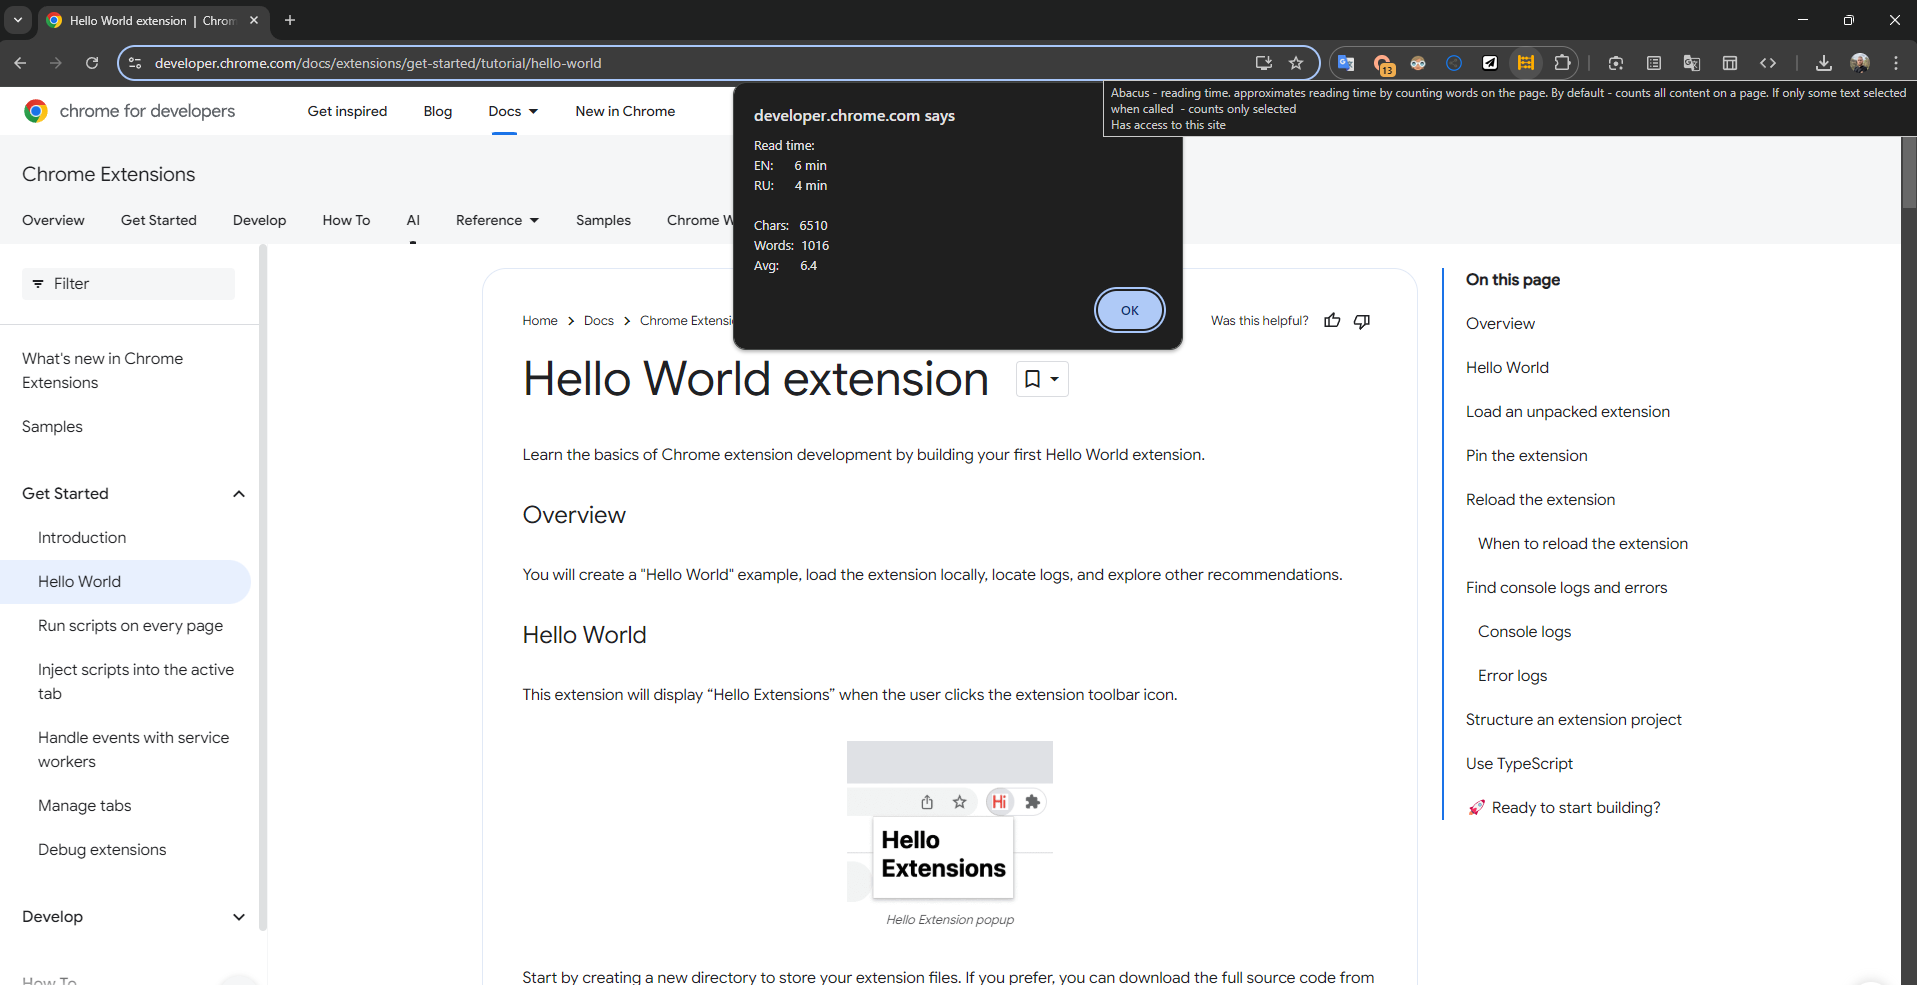
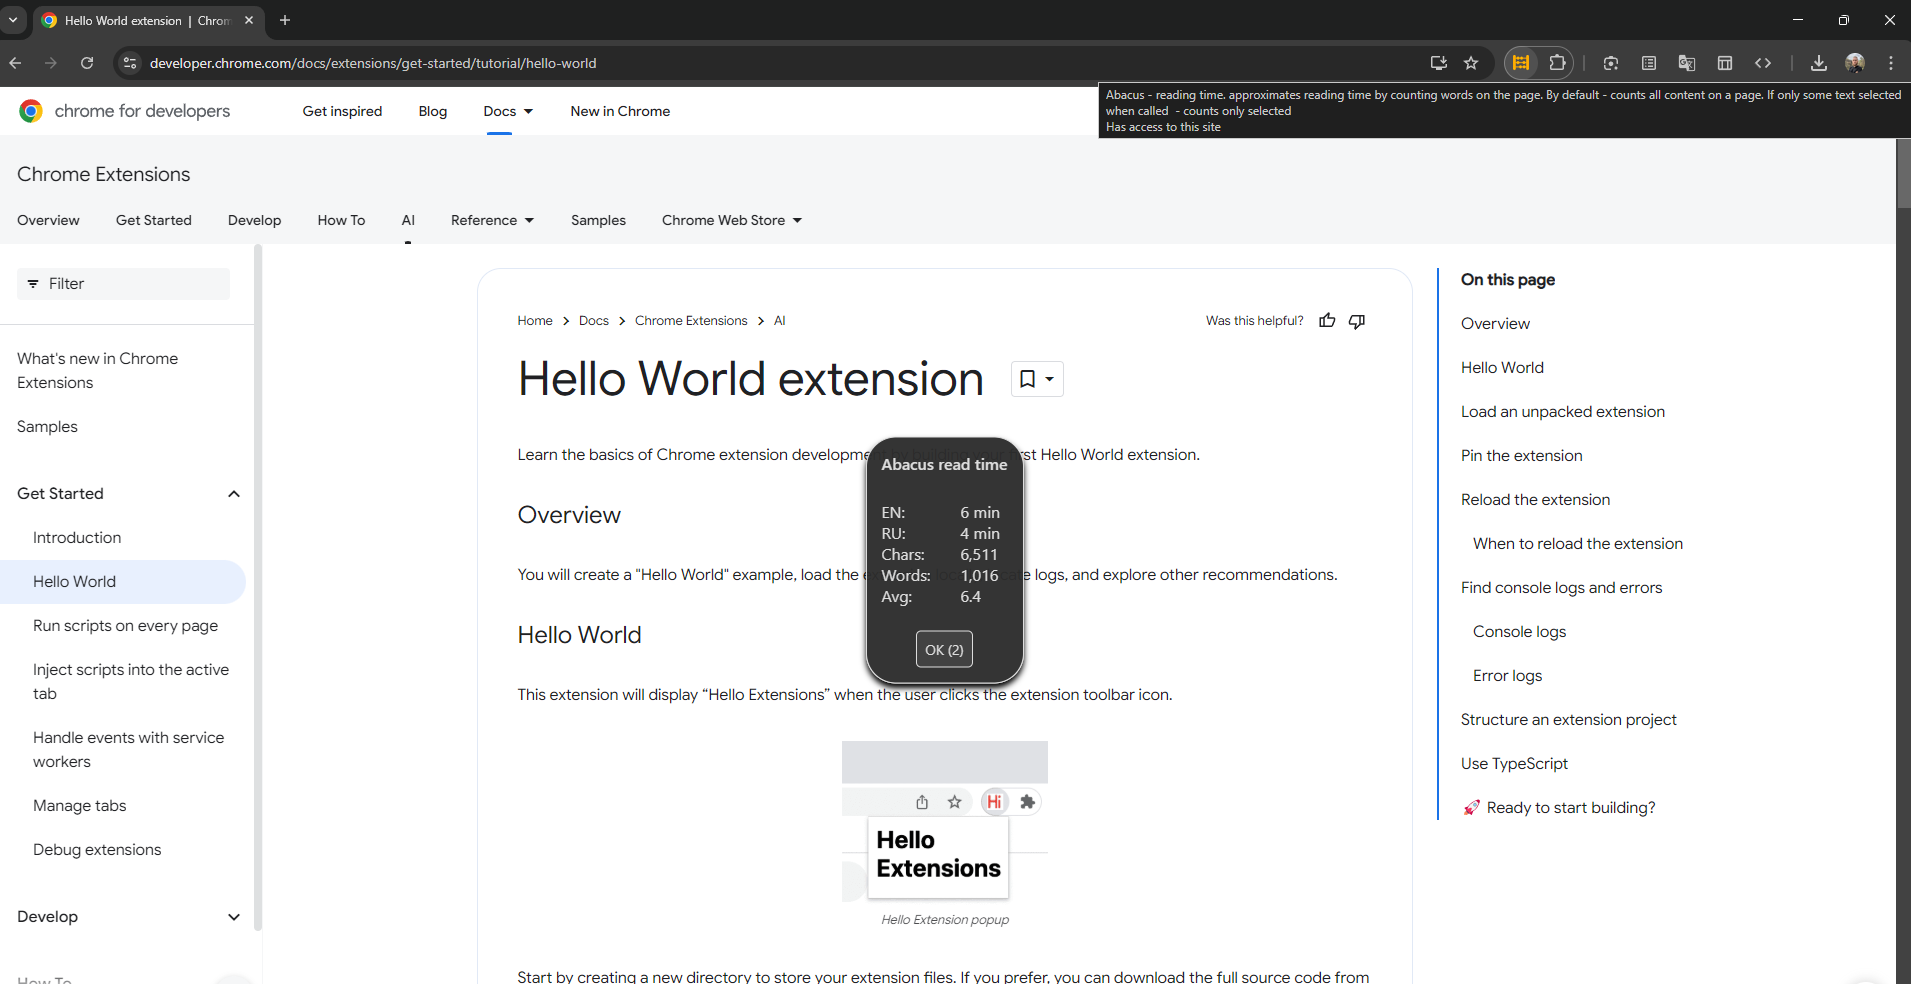
switch from default alert to custom pop-up window to add autoclose in 3 sec. with deepseek_R1. Updated screenshots and readme accordingly.

diff --git a/content.js b/content.js
@@ -1,37 +1,160 @@
-(function() {
+(function () {
   // Configuration variables
   const CONFIG = {
     WORDS_PER_MINUTE: {
-      EN: 200, // set ur reading speed in this language
-      RU: 300  // set ur reading speed in this language
+      EN: 200, // <- set ur reading speed for this language
+      RU: 300 // <- set ur reading speed for this language
     },
-    SPACING: {
-      EN_LABEL: '      ',
-      RU_LABEL: '      ',
-      CHARS_LABEL: '   ',
-      WORDS_LABEL: '  ',
-      AVG_LABEL: '      '
-    }
+    AUTO_CLOSE_TIME: 3000 // auto-closes in 3 seconds. 1 second = 1000
   };
 
+  // Get selected text or full page content
   const selectedText = window.getSelection().toString().trim();
   const text = selectedText || document.body.innerText;
   
+  // Calculate metrics
   const words = text.split(/\s+/).filter(word => word.length > 0);
   const wordCount = words.length;
   const charCount = text.length;
   const avgWordLength = wordCount > 0 ? (charCount / wordCount).toFixed(1) : 0;
   
+  // Calculate reading times
   const readTimeEn = Math.ceil(wordCount / CONFIG.WORDS_PER_MINUTE.EN);
   const readTimeRu = Math.ceil(wordCount / CONFIG.WORDS_PER_MINUTE.RU);
+
+  // CSS reset (fixed placement)
+  const style = document.createElement('style');
+  style.textContent = `
+    .abacus-reset * {
+      all: initial;
+      font-family: system-ui, -apple-system, sans-serif !important;
+      font-size: 16px !important;
+      color: rgb(222,222,222) !important;
+      box-sizing: border-box !important;
+    }
+    .abacus-reset {
+      isolation: isolate;
+      font-size: 16px;
+      line-height: 1.5;
+    }
+    .abacus-reset button {
+      font-size: 0.875em !important;
+    }
+  `;
+  document.head.appendChild(style);
+
+  // Create modal
+  const modal = document.createElement('div');
+  modal.className = 'abacus-reset';
+  modal.style.cssText = `
+    position: fixed;
+    top: 50%;
+    left: 50%;
+    transform: translate(-50%, -50%);
+    background: rgba(44,44,44,.96);
+    padding: 15px !important;
+    border-radius: 30px;
+    box-shadow: 0 4px 6px rgba(0,0,0,1);
+    z-index: 99999;
+    
+    border: 1px solid rgb(222,222,222);
+  `;
+
+  // Title
+  const title = document.createElement('h3');
+  title.textContent = 'Abacus read time';
+  title.style.cssText = `
+    width: fit-content;
+    text-align: center;
+    font-size: 1.1em;
+    font-weight: 600;
+  `;
+
+  // Content with manual spacing
+const content = document.createElement('div');
+content.innerHTML = `<br><br>
+  <div style="
+    margin-bottom: 25px;
+    display: grid;
+    grid-template-columns: auto 1fr;
+    gap: 0px 30px;
+  ">
+    <div>EN:</div>    <div>${readTimeEn} min</div>
+    <div>RU:</div>    <div>${readTimeRu} min</div>
+    <div>Chars:</div> <div>${charCount.toLocaleString('en')}</div>
+    <div>Words:</div> <div>${wordCount.toLocaleString('en')}</div>
+    <div>Avg:</div>   <div>${avgWordLength}</div>
+  </div>
+`;
+
+  // Close button with countdown
+  const closeButton = document.createElement('button');
+  let countdown = Math.ceil(CONFIG.AUTO_CLOSE_TIME / 1000);
   
-  alert(
-    `Read time:\n` +
-    `EN:${CONFIG.SPACING.EN_LABEL}${readTimeEn} min\n` +
-    // delete next line if don't need second language. 
-    `RU:${CONFIG.SPACING.RU_LABEL}${readTimeRu} min\n\n` + // <- delete THIS
-    `Chars:${CONFIG.SPACING.CHARS_LABEL}${charCount}\n` +
-    `Words:${CONFIG.SPACING.WORDS_LABEL}${wordCount}\n` +
-    `Avg:${CONFIG.SPACING.AVG_LABEL}${avgWordLength}`
-  );
+  const updateButtonText = () => {
+    closeButton.textContent = `OK (${countdown})`;
+    countdown--;
+  };
+
+  // Button styling
+  closeButton.style.cssText = `
+    margin-top: 8px;
+    padding: 8px 8px;
+    display: block;
+    margin: 0 auto;
+    cursor: pointer;
+    background: rgba(66,66,66,0.95);
+    color: rgb(222,222,222);
+    border: 1px solid rgb(222,222,222);
+    border-radius: 5px;
+    font-size: 0.9em;
+    transition: all 0.2s;
+    min-width: 30px;
+  `;
+
+  // Hover effects
+  closeButton.addEventListener('mouseover', () => {
+    closeButton.style.background = 'rgba(88,88,88,0.95)';
+  });
+  closeButton.addEventListener('mouseout', () => {
+    closeButton.style.background = 'rgba(66,66,66,0.95)';
+  });
+
+  // Initial button update
+  updateButtonText();
+
+  // Close handler
+  let autoCloseTimer;
+  const closeModal = () => {
+    document.body.removeChild(modal);
+    clearInterval(countdownInterval);
+    clearTimeout(autoCloseTimer);
+  };
+
+  closeButton.onclick = closeModal;
+  
+  // Countdown interval
+  const countdownInterval = setInterval(() => {
+    if (countdown > 0) {
+      updateButtonText();
+    } else {
+      closeModal();
+    }
+  }, 1000);
+
+  // Auto-close timer
+  autoCloseTimer = setTimeout(closeModal, CONFIG.AUTO_CLOSE_TIME);
+
+  // Assemble modal
+  modal.appendChild(title);
+  modal.appendChild(content);
+  modal.appendChild(closeButton);
+  
+  // Add to DOM
+  document.body.appendChild(modal);
+
+  // Handle ESC key
+  document.addEventListener('keydown', (e) => {
+    if (e.key === 'Escape') closeModal();
+  });
 })();

diff --git a/README.md b/README.md
@@ -1,10 +1,12 @@
 # Abacus - reading time
 Chrome extension - approximates reading time by counting words on the page. 
 
-- by default - counts all content on a page. 
+pop-up small window in the middle of the page - appears for 3 seconds (customizable)
+
+- By default - counts all content on a page.
 - If only some text selected when called  - counts only selected
 
-Written with chatGPT
+Written with chatGPT and DeepSeek R1
 
 ## Setup:
 1. Go to `chrome://extensions/`
@@ -14,8 +16,10 @@ Written with chatGPT
 
 #### Optional:
 5. Add shortcut - go to `chrome://extensions/shortcuts` click `edit` button on `Activate the extension`. Set desirable shortcut e.g. `control+shift+W`
-6. Change reading speed variable. In [./content.js](./content.js) change `WORDS_PER_MINUTE: {EN: 200}` value according to ur reading speed. 
+6. Customize few variables. In [./content.js](./content.js):
+   1. Change reading speed variable.  `WORDS_PER_MINUTE: {EN: 200}` value according to ur reading speed. 
    - if dont need second language. comment out | delete `'RU'` line lower in the `'alert'` block. 
+   2. Change auto close time variable `AUTO_CLOSE_TIME: 3000` default 3 sec. 1 sec = 1000. 
 
 
 ## File structure:
@@ -32,7 +36,6 @@ abacus_reading_time/
 |-- README.md
 
 ```
-
 
 ## inspired by
 [Steven-Roberts/Word-Counter-Plus](https://github.com/Steven-Roberts/Word-Counter-Plus)
